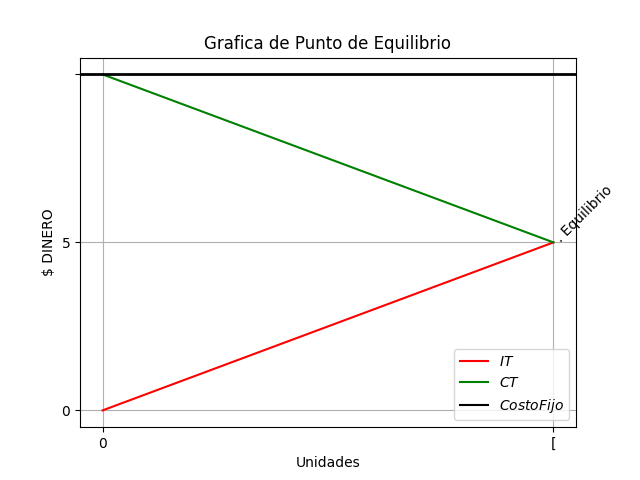
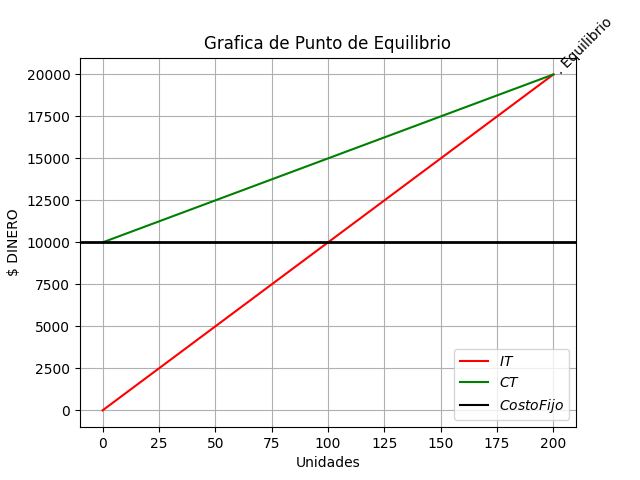
cambios de grafica

diff --git a/Templates/procesos/Utilidad.html b/Templates/procesos/Utilidad.html
@@ -14,7 +14,7 @@
     <main class="container-fluid botonsecundario ">
         <div class="row bo text-center   barra url ">
             <div class="col-12 col-lg-12">
-                <h1 >UTILIDAD</h1>
+                <h1 >Punto de Equlibrio</h1>
 
             </div>
             <div class="col-12 col-lg-12 navbar navbar-light barra">
@@ -31,7 +31,7 @@
                 <div class="card w-100 ">
                     <div class="card-body text-dark border border-dark rounded ">
                         <h5 class="card-title text-center">INGRESE LOS DATOS</h5>
-                        <p class="card-text border text-center">Ingrese sus datos para poder calcular el PIB </p>
+                        <p class="card-text border text-center">Ingrese sus datos para poder calcular el Punto de Equilibrio </p>
                         <form class="text-form"  method="POST">
                             <input type="hidden" name="csrf_token" value="{{csrf_token()}}"/>
                             
@@ -61,7 +61,7 @@
                         <p class="card-text border text-center">Aqui se ingresaran las Respuesta cuando haga la Operacion</p>
                         <p>Si las Respuestas son Negativas no es Rentable</p>
                         
-                        {%for r_equilibrio,r_ventas,r_costo,r_margen,r_utilidad in calculo%}
+                        {%for r_equilibrio,r_ventas,r_costo,r_margen,r_utilidad  in calculo%}
                             <p> Estas son las unidades que tienes que vender para estar en punto de Equilibrio : {{r_equilibrio}}</p>
                             <p> Dinero de las Ventas: {{r_ventas}}</p>
                             <p> El Costo Variable es: {{r_costo}}</p>
@@ -75,15 +75,9 @@
                 </div>
             </div>
 
-        <div class="row">
+        <div class="row ">
             <div class=" col-12 col-lg-12 mt-5 ">
-                {%if calculo%}
-                    <a href="{{url_for('graficas', lista=calculo )}}" class="btn btn-outline-primary w-100 rounded-pill">Ver Grafica</a>
-                {%endif%}
-                
-                
-                
-               
+                <img src="{{url}}" alt="no encontrada">
             </div>
         </div>
         

diff --git a/Templates/index.html b/Templates/index.html
@@ -83,9 +83,9 @@
                     <div class="card shadow-lg  bg-body rounded">
                         <img src="{{ url_for('static' , filename='img/utilidad.jpg')}}" alt="Logo Facpya" width="100" height="300" class="card-img-top">
                         <div class="card-body shadow-lg  bg-body rounded">
-                            <h4 class="card-title" >UTILIDAD</h4>
+                            <h4 class="card-title" >PUNTO DE EQULIBRIO</h4>
                             <h6 class="card-title">Materia: Contabilidad Administrativa</h6>
-                            <p class="card-text">Si quieres sacar la Utilidad de una manera dinamica esta tarjeta es para ti</p>
+                            <p class="card-text">Si quieres sacar la . de equilibrio de una manera dinamica esta tarjeta es para ti</p>
                             <a href="{{url_for('UTILIDAD')}}" class="btn btn-primary w-100">IR</a>
                         </div>
                       </div>

diff --git a/funciones/clases.py b/funciones/clases.py
@@ -61,7 +61,7 @@ class MetodoDelGasto():
 
 
 class Equilibrio():
-    def __init__(self,p="",cv="",cf=""):
+    def __init__(self,p,cv,cf):
         self.__p=p
         self.__cv=cv
         self.__cf=cf
@@ -69,11 +69,13 @@ class Equilibrio():
     
     def proceso(self):
         lista=[]
+        
         equilibrio=(self.__cf/(self.__p-self.__cv))
         It=(equilibrio*self.__p)
         costoV=(equilibrio*self.__cv)
         margenC=(It-costoV)
         utilidad=(margenC-self.__cf)
+        
         lista=[equilibrio,It,costoV,margenC,utilidad]
         
         return lista
@@ -83,16 +85,16 @@ class Equilibrio():
         equilibrio=lista[0]
         It=lista[1]
         costoV=lista[2]
-        margenC=lista[3]
-        utilidad=lista[4]
-        
-       
+      
         x=[0,equilibrio]
         y=[0,It]
+
         plt.plot(x,y,"r")
         plt.plot(It,label=r"$IT$",color="r")
+
         x1=[0,equilibrio]
         y2=[self.__cf,It]
+
         plt.plot(x1,y2,"g")
         plt.plot(costoV,label=r"$CT$",color="g")
         plt.grid(True)
@@ -104,11 +106,12 @@ class Equilibrio():
         plt.xlabel("Unidades")
         plt.ylabel("$ DINERO")
         plt.title("Grafica de Punto de Equilibrio")
-    
         
         plt.text(equilibrio,It,". Equilibrio",rotation=45)
         
+        
         plt.savefig('static/graficas/'+correo+"/plot.png")
+        
         url='static/graficas/'+correo+"/plot.png"
         
 
@@ -116,5 +119,4 @@ class Equilibrio():
         
 
 
-
-
+        

diff --git a/app.py b/app.py
@@ -240,20 +240,12 @@ def UTILIDAD():
         insertar_Utilidad(precio_venta,costo_variable,costo_fijo,r_equilibrio,r_venta,r_costo_variable,r_margen,r_utilidad,tiempo_C,email)
         valores=obtener_datos_Utilidad(email)
 
-    return render_template("procesos/Utilidad.html",form=form ,calculo=lista2 , lista=valores )
+        grafica=Equilibrio(precio_venta,costo_variable,costo_fijo).graficar(lista,email)
+
+    return render_template("procesos/Utilidad.html",form=form ,calculo=lista2 ,url=grafica,lista=valores )
 
 
-@app.route("/ver_grafica/<lista>", methods=["GET","POST"])
-def graficas(lista):
-    print(lista)
-    global correo
-    email=correo
 
-
-    grafica=Equilibrio().graficar(lista,email)
-    
-
-    return render_template("procesos/utilidad_grafica.html",url=grafica)
 
 
 
